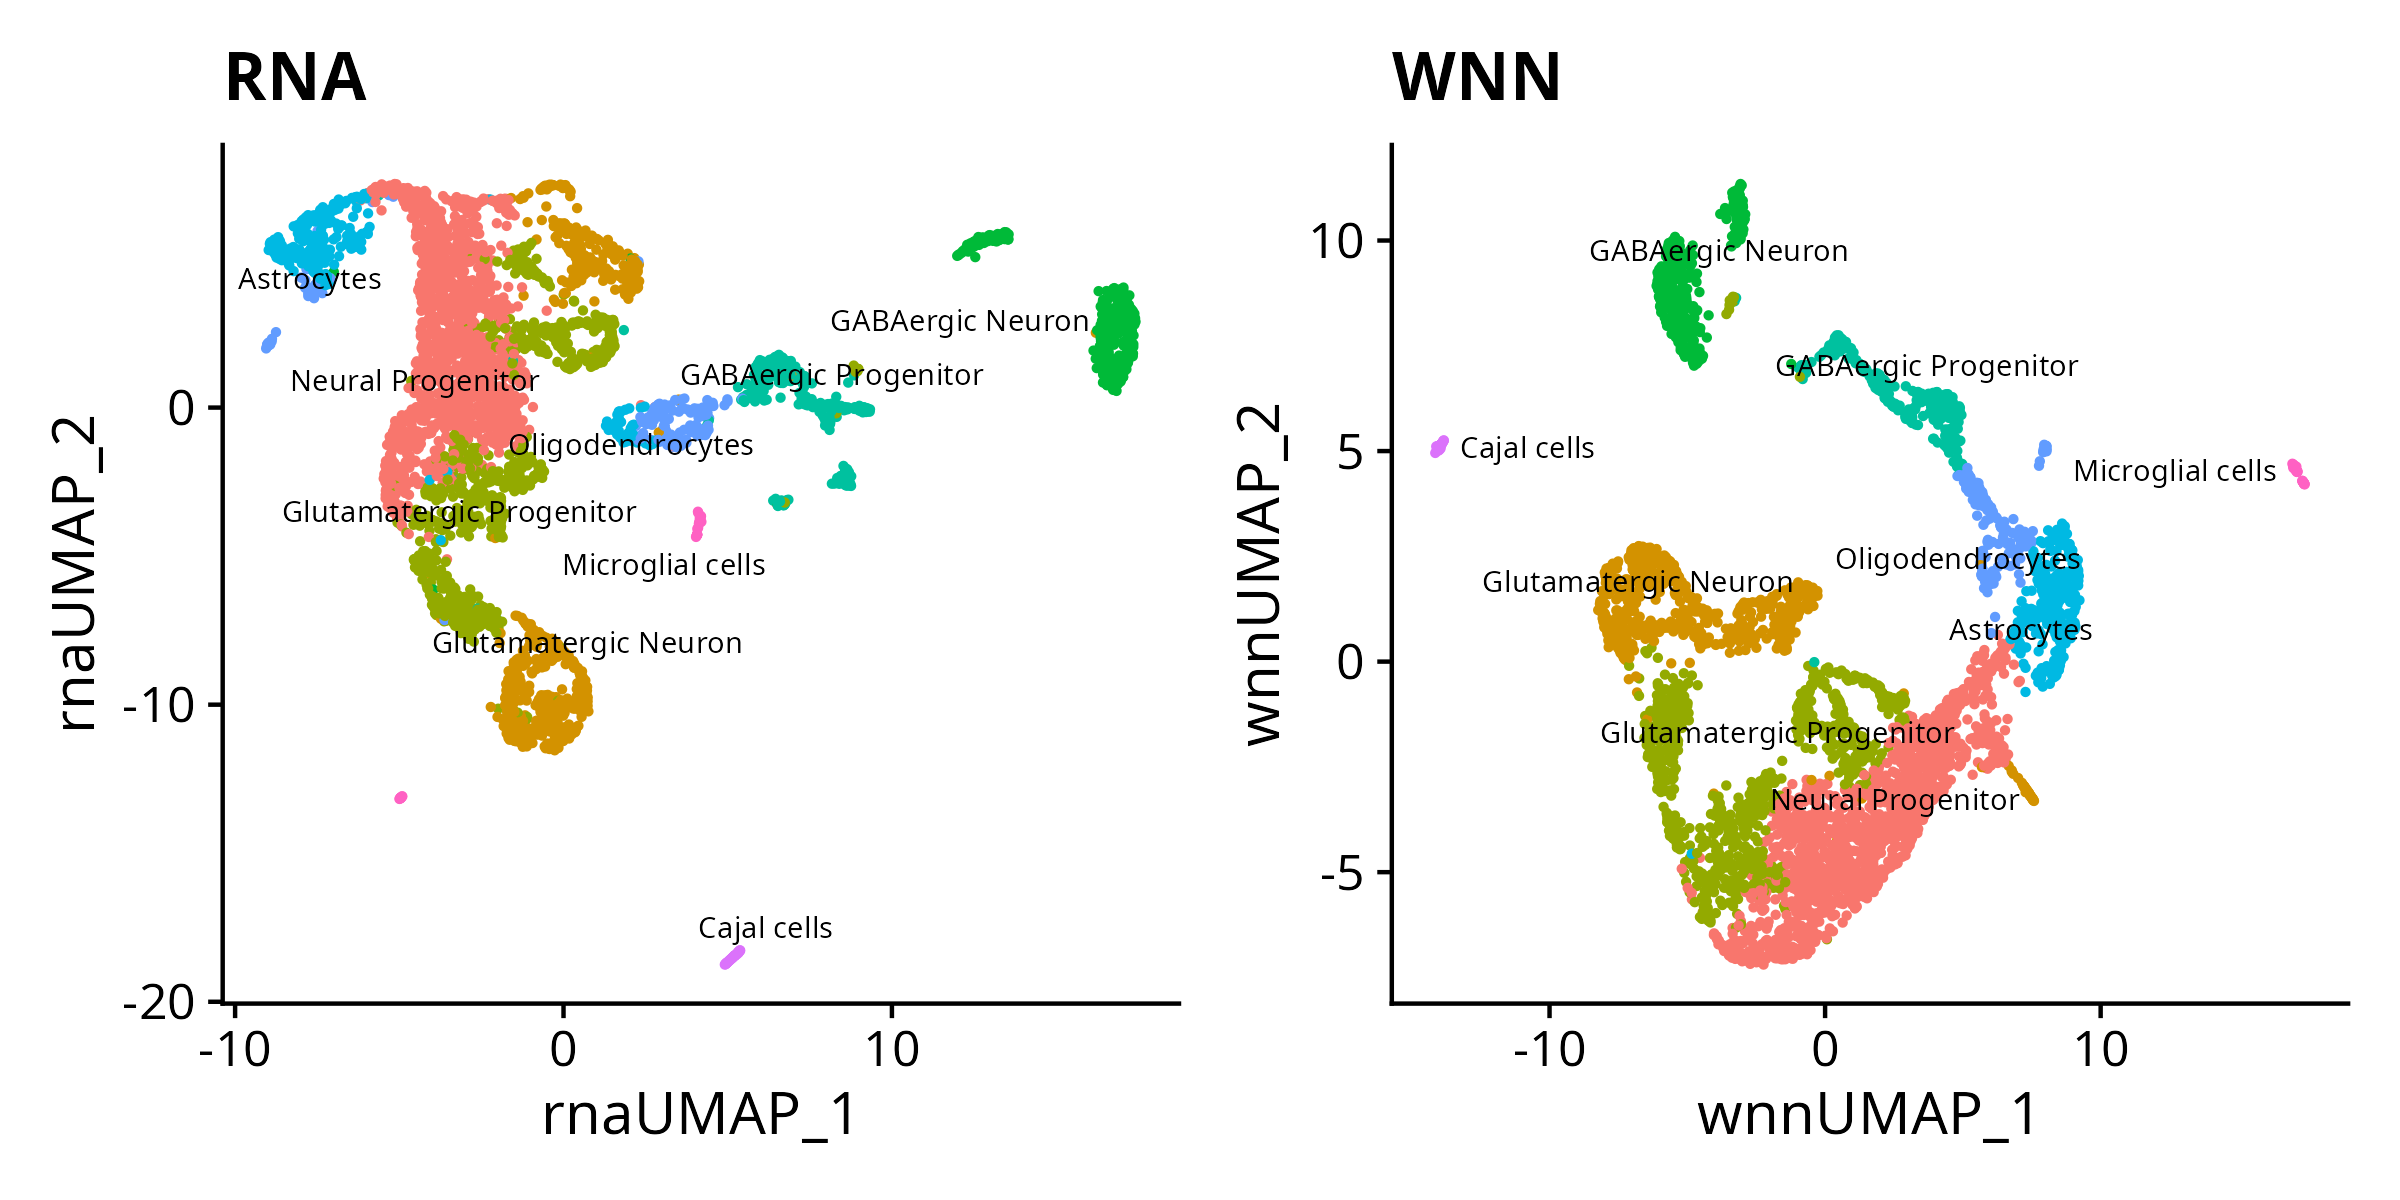
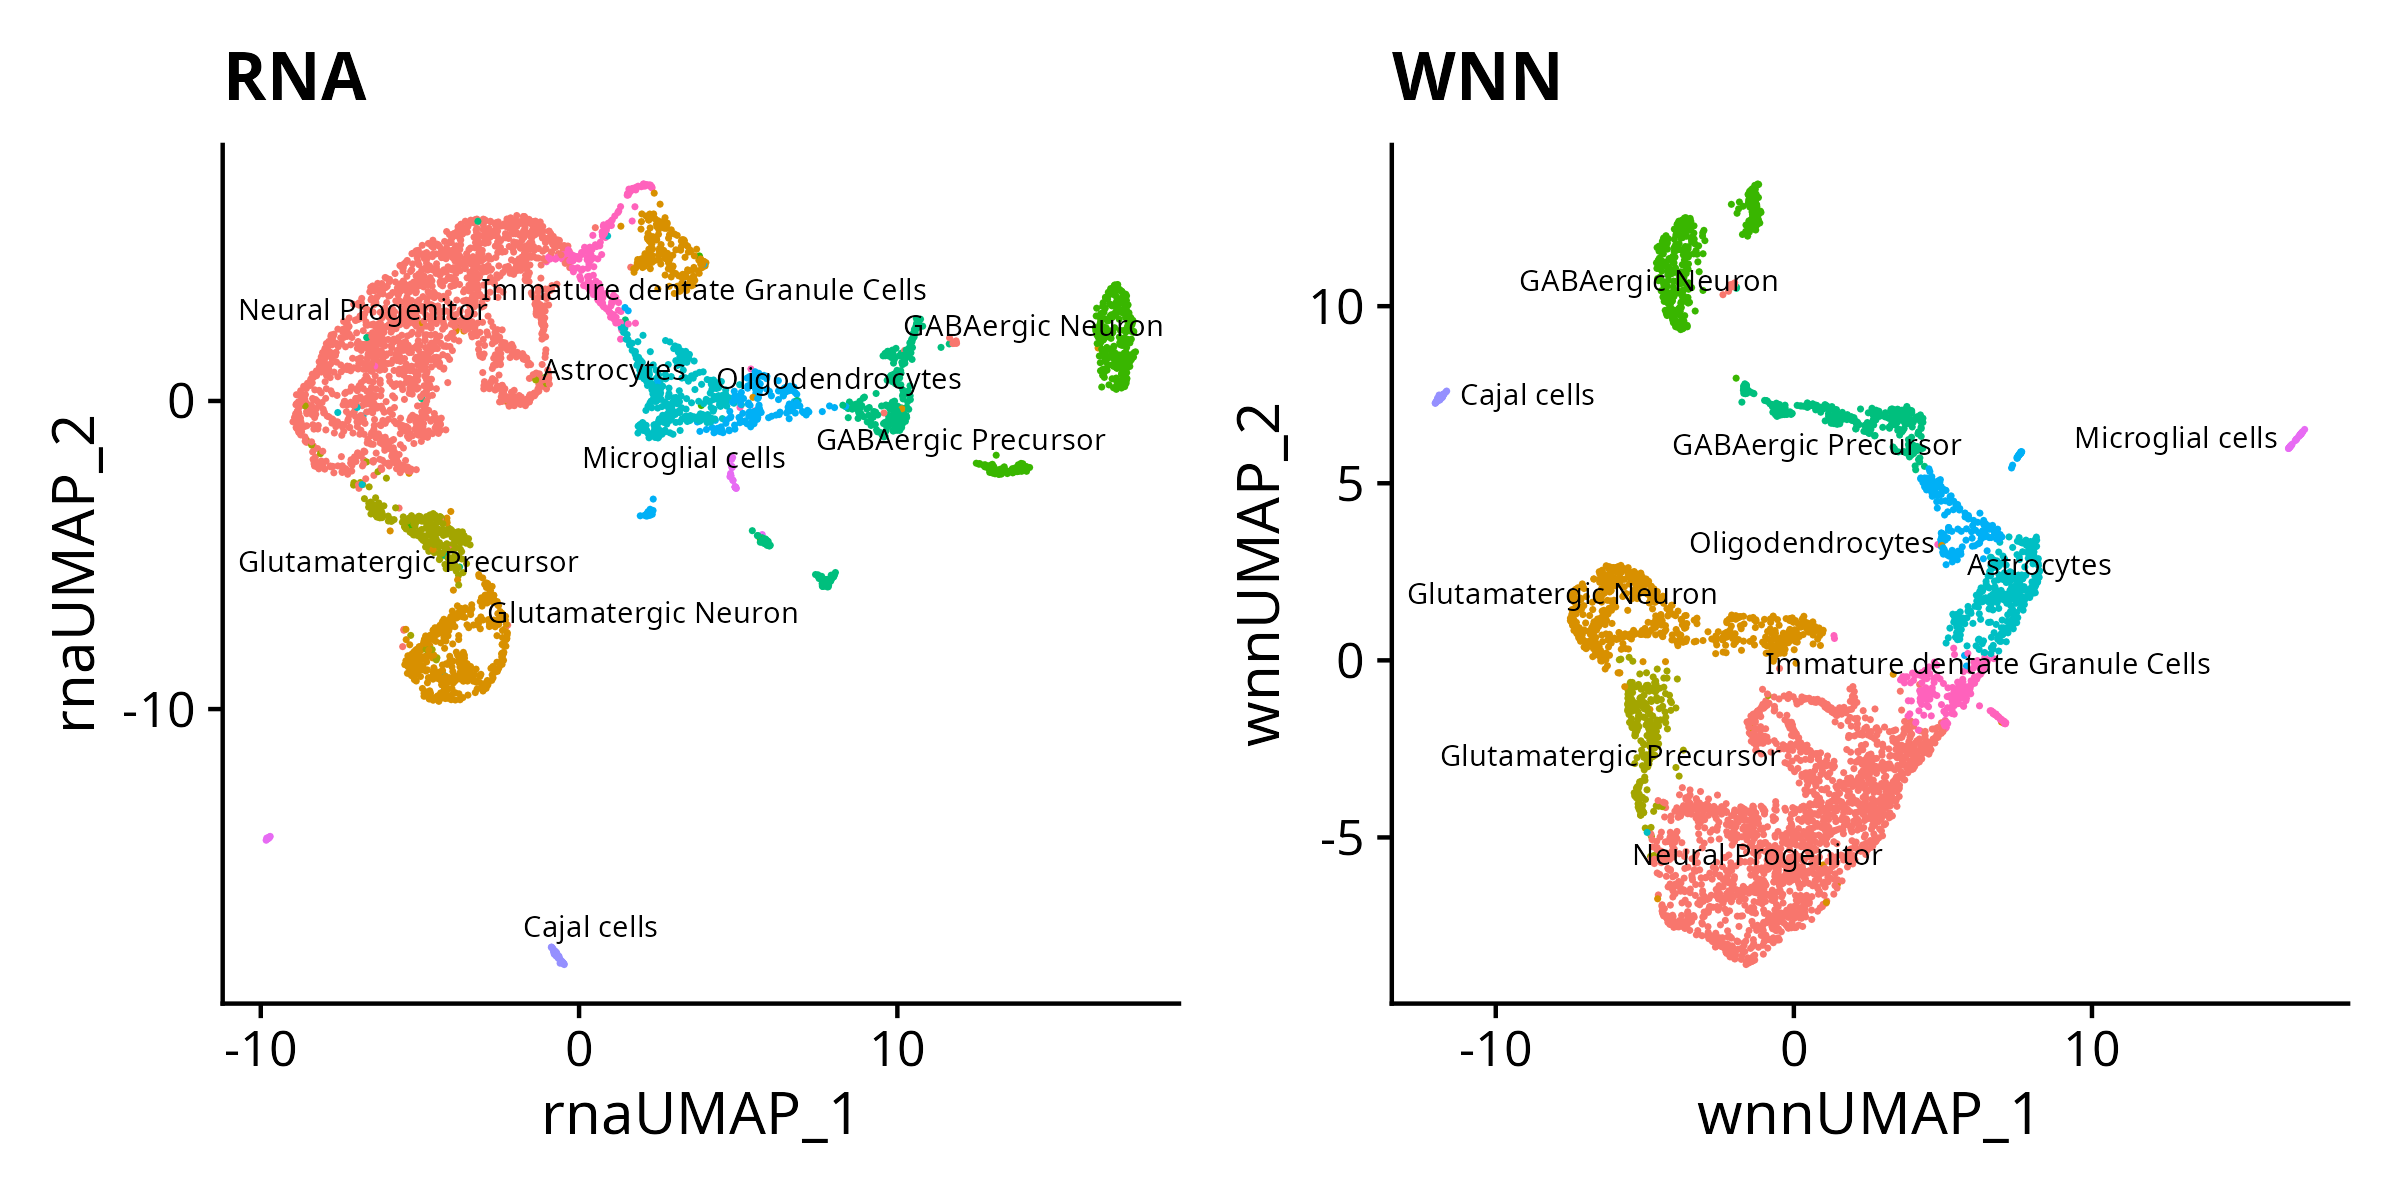
analysis update

diff --git a/readme.md b/readme.md
@@ -2,18 +2,15 @@
 
 ## Overview
 
-This repository demonstrates a workflow for the analysis of a multi-omics experiment interrogating chromatin accessibility and gene expression of the murine brain starting from raw fastq files all the way to downstream analysis. I use the Weighted Nearest Neighbour (WNN) method from the Seurat package to integrate expression and accessibility data for dimensionality reduction, cluster annotation, and finally the identification of features putatively interesting for cell type decisions.
+This repository demonstrates a workflow for the analysis of a multi-omics experiment interrogating chromatin accessibility and gene expression of the murine brain starting from raw fastq files all the way to downstream analysis. I use the Weighted Nearest Neighbour (WNN) method from the Seurat package to integrate expression and accessibility data for dimensionality reduction, cluster annotation, and finally the identification of features putatively interesting for cell fate decisions.
 
 This is intended as an exploratory analysis that serves only as a starting point for further analysis depending on the scientific question of the study.
 
-The most important points are listed in this readme. The analysis is divided into 3 R-markdown files that contain the details and exact executed code.
+This readme file contains the main points of the analysis. The analysis is divided into three R-markdown files that are annotated with details and contain the exact executed code.
 
 ## Data
 
 The data for this analysis is from 10x Genomics and can be found within their datasets archive under the name 'Fresh Embryonic E18 Mouse Brain (5k)'. This experimental data contains scRNA and scATAC-seq read outs from the same nucleus and was created using the 10x 'Epi Multiome ATAC + Gene Expression' protocol. The subject tissue is the brain of an 18 day old mouse embryo. We are therefore dealing with embryonic cells during late gestation that are in varying stages of differentiation which is going to become evident in the analysis below.
-
-## Quality Control - raw data
-
 
 ## Workflow overview
 
@@ -59,20 +56,40 @@ Similarly, the combined look at the RNA-seq and scATAC data shows most cells sim
 
 ## Dimensionality reduction and Clustering
 
-Here, I use the Weighted Nearest Neighbor (WNN) method in Seurat to jointly embed gene expression and ATAC profiles for each cell and perform integrated clustering. WNN is a multimodal integration approach that jointly analyzes multiple modalities, such as gene expression and ATAC. Instead of concatenating features across modalities, WNN constructs separate neighbor graphs for each modality and learns cell-specific weights. For each cell, these weights quantify how well a given modality captures local neighborhood structure. The modality-specific graphs are then combined into a single weighted neighbor graph, which balances contributions from each modality on a per-cell basis. I then use the graph for Leiden clustering.
+Here, I use the Weighted Nearest Neighbor (WNN) method in Seurat to jointly embed gene expression and ATAC profiles for each cell and perform integrated clustering. WNN is a multimodal integration approach that jointly analyzes multiple modalities, such as gene expression and ATAC. Instead of concatenating features across modalities, WNN constructs separate neighbor graphs for each modality and learns cell-specific weights. For each cell, these weights quantify how well a given modality captures local neighborhood structure. The modality-specific graphs are then combined into a single weighted neighbor graph, which balances contributions from each modality on a per-cell basis. I then use the graph for Leiden clustering, which resulted in 16 clusters with varying sizes from 558 to 36 cells.
 
-Below is a UMAP visualization of RNA (PCA), ATAC (TF-IDF), and the integrated WNN graph, with cells colored by cluster (15 total). At first glance, the WNN embedding appears similar to the ATAC visualization, likely due to their shared orientation and the presence of elongated regions corresponding to clusters 12 and 5. However, the WNN representation integrates information from both RNA and ATAC modalities. For example, clusters 9 and 13 are nearly indistinguishable in the ATAC embedding but are clearly separable based on gene expression. In this case, the WNN graph assigns greater weight to the RNA modality when defining the local neighborhood structure of these clusters.
+Below is a UMAP visualization of RNA (PCA), ATAC (TF-IDF), and the integrated WNN graph, with cells colored by cluster (16 total). At first glance, the WNN embedding appears similar to the ATAC visualization, likely due to their shared orientation and the presence of elongated regions corresponding to clusters 12 and 6. However, the WNN representation integrates information from both RNA and ATAC modalities. For example, clusters 7 and 14 are nearly indistinguishable in the ATAC embedding but are clearly separable based on gene expression. In this case, the WNN graph assigns greater weight to the RNA modality when defining the local neighborhood structure of these clusters.
 
 ![UMAP1](figures/umap.compare.RNA.ATAC.WNN.png)
 
 ## Cell type assignment
 
-What did I use?
+For cell type assignment I performed a differential expression analysis to find differentially expressed genes for every cluster. I then utilized the marker gene list for the brain from sc-type (https://github.com/IanevskiAleksandr/sc-type/) to make informed decisions about cell identities. In short, I checked each cluster for expressed marker genes and checked their differentiation status by assessing their representation in the RNA and WNN UMAP. As an example, here is the expression of Slc6a1 (neurotransmitter transporter, GABA), Gad2 (glutamate decarboxylase), and Dlx5 (transcription factor). The first 2 genes are markers of GABAergic neurons, whereas Dlx5 is a transcription factor associated with developement.
 
-exemplary pictures of differentially expressed genes
+![GABA expression](figures/cluster_ident/Slca1.Gad2.Dlx5.png)
+
+The clusters associated with high Slc6a1 and Gad2 expression are therefore likely to be GABAergic neurons or precursors thereof. I continued with the rest of the clusters and the available marker genes from sc-type and concluded with the cluster identification found below. Since, mainly the gene expression was used for cell type identification, I included the RNA and WNN UMAPs colored by cell identity. For simplicity's sake I collapsed multiple clusters into cell types. Same cell types might end up in different clusters due to, e.g., brain region the cells originated from.
+
+![UMAP2](figures/umap.RNA.WNN.celltypes.png)
+
+The more differentiated neurons (GABAergic and Glutamatergic) both originate from a pool of undifferentiated Neuroblasts. Cells are being captured during different stages of differentiation, leading to lanes/necks of cells in the UMAP representation leading from the pool of Neuroblasts to the more differentiated cell types. Limitation: with more time and exchange with murine development experts a more complete assignment of clusters to different precursor stages could be made. Cajal cells (interneurons) appear very distinct from the large pool of developing neurons. Unsurprisingly, Microglial cells also cluster far from the main body of cells, attributable to their different origin.
+
 
 ## Transcription factor / Motif analysis
 
-What did I do?
+Lastly, I leverage the modalities of ATAC peaks and Gene expression to identify enriched transcription factor (TF) motifs and the associated TF expression to identify intriguing genes for cell type development. The latest version (2024) of JASPAR is used to get a list of TF motifs and chromVAR is used to find differentially accessible motifs in the assigned cell types. The Area Under Curve (AUC) of every TF expression/motif accessiblity pair is used to rank the marker TFs. The associated table can be found under 'data/celltype.motif.markers.csv'.
 
-Show some interesting genes.
+### Dlx5
+
+Dlx5 is identified as a marker for GABAergic Neurons in this analysis. It is a member of the DLX gene family that encompasses multiple homeobox transcription factors. Mutations of it are associated with the split hand and foot malformation syndrome. It is known to be expressed in the brain, however a function specific to GABAergic neurons is not known. Its expression and TSS accessibility are only high in GABAergic Neurons or Precursors thereof.
+
+![Dlx5_GEX_motif](figures/TFplots/Dlx5.atac.gex.png)
+![Dlx5_accessibility](figures/TFplots/Dlx5.access.png)
+
+
+### Plagl1
+
+Plagl1 is identified as a marker for Astrocytes in this analysis and stands out with an average AUC of 0.85. It is associated with neural development in mice, but its association with astrocytes in particular appears to be not described. Additionally, the ATAC profile shows its Transcrption Start Site (TSS) not being more accessible than other cell types, however it is distinguished by multiple peaks within exons. This might be a hint for this gene's expression being regulated on the RNA level by alternative splicing mechanisms.
+
+![Plagl1_GEX_motif](figures/TFplots/Plagl1.atac.gex.png)
+![Plagl1_accessibility](figures/TFplots/Plagl1.access.png)
